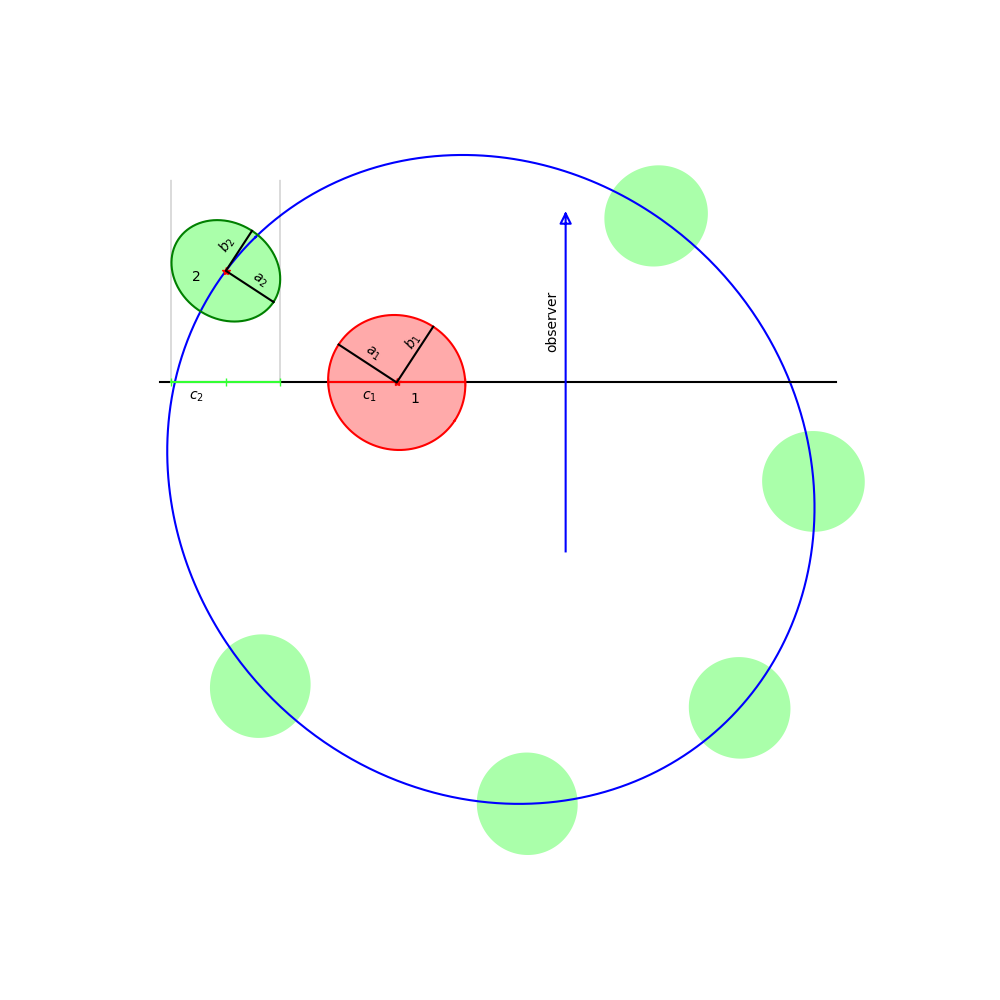
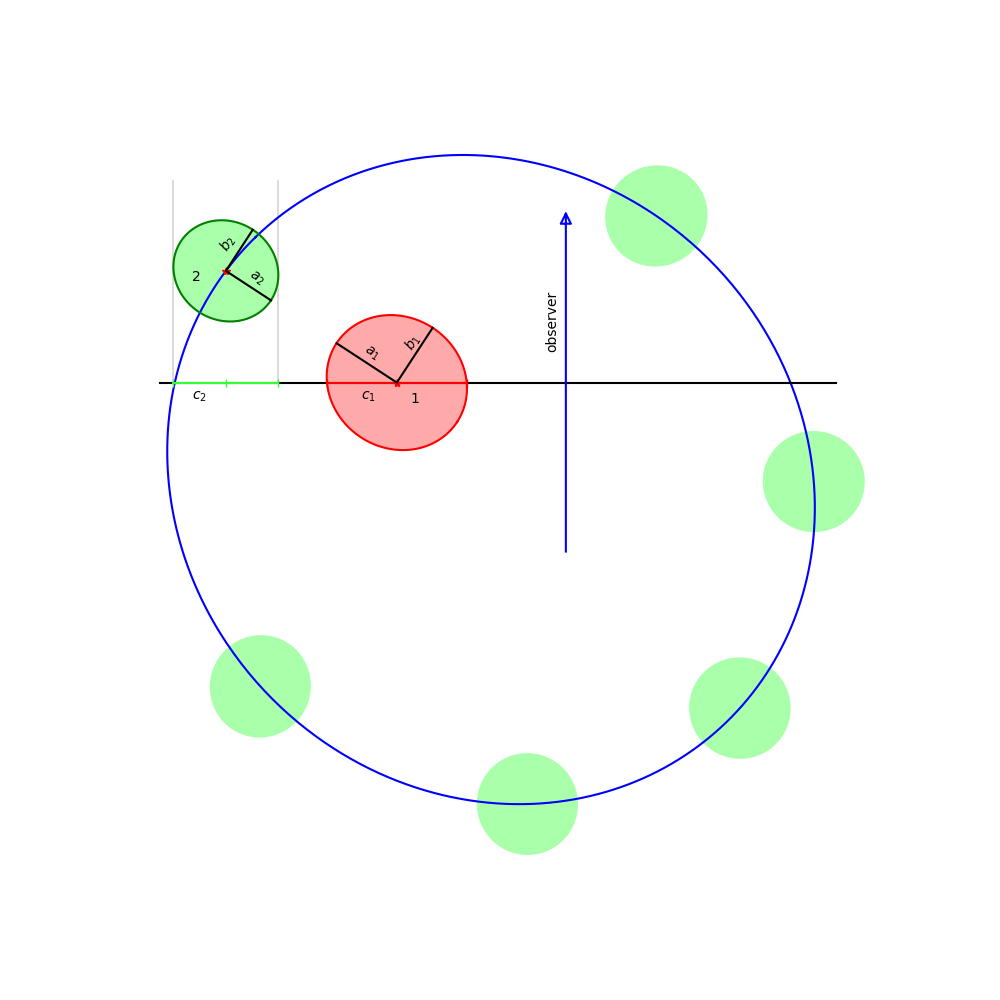
more on docs 5

diff --git a/docs/EclipsingStars.md b/docs/EclipsingStars.md
@@ -423,11 +423,11 @@ invert the massratio parameter.
 
 The mirrorings are summarized in the table below.
 
-| mirror | panel  |  incl  |  long  |  radius   |  lumen   | massratio |
+| mirror | panel  |  incl  |  long  |  radius   |  lumen   | mass_1   |
 |:------:|:------:|:------:|:------:|:---------:|:--------:|:---------:|
 |   y z  |   b    | &pi;-i |        |           |          |           |
 |   x z  |   c    |  +&pi; |  +&pi; |           |          |           |
-|   x y  |   d    |  +&pi; |        |1&lt;=&gt;2 |1&lt;=&gt;2| 1/mr    |
+|   x y  |   d    |  +&pi; |        |1&lt;=&gt;2 |1&lt;=&gt;2| 1 - m<sub>1</sub>   |
 
 <p>
 The 3 mirrorings on fundamental planes, can be combined into 8